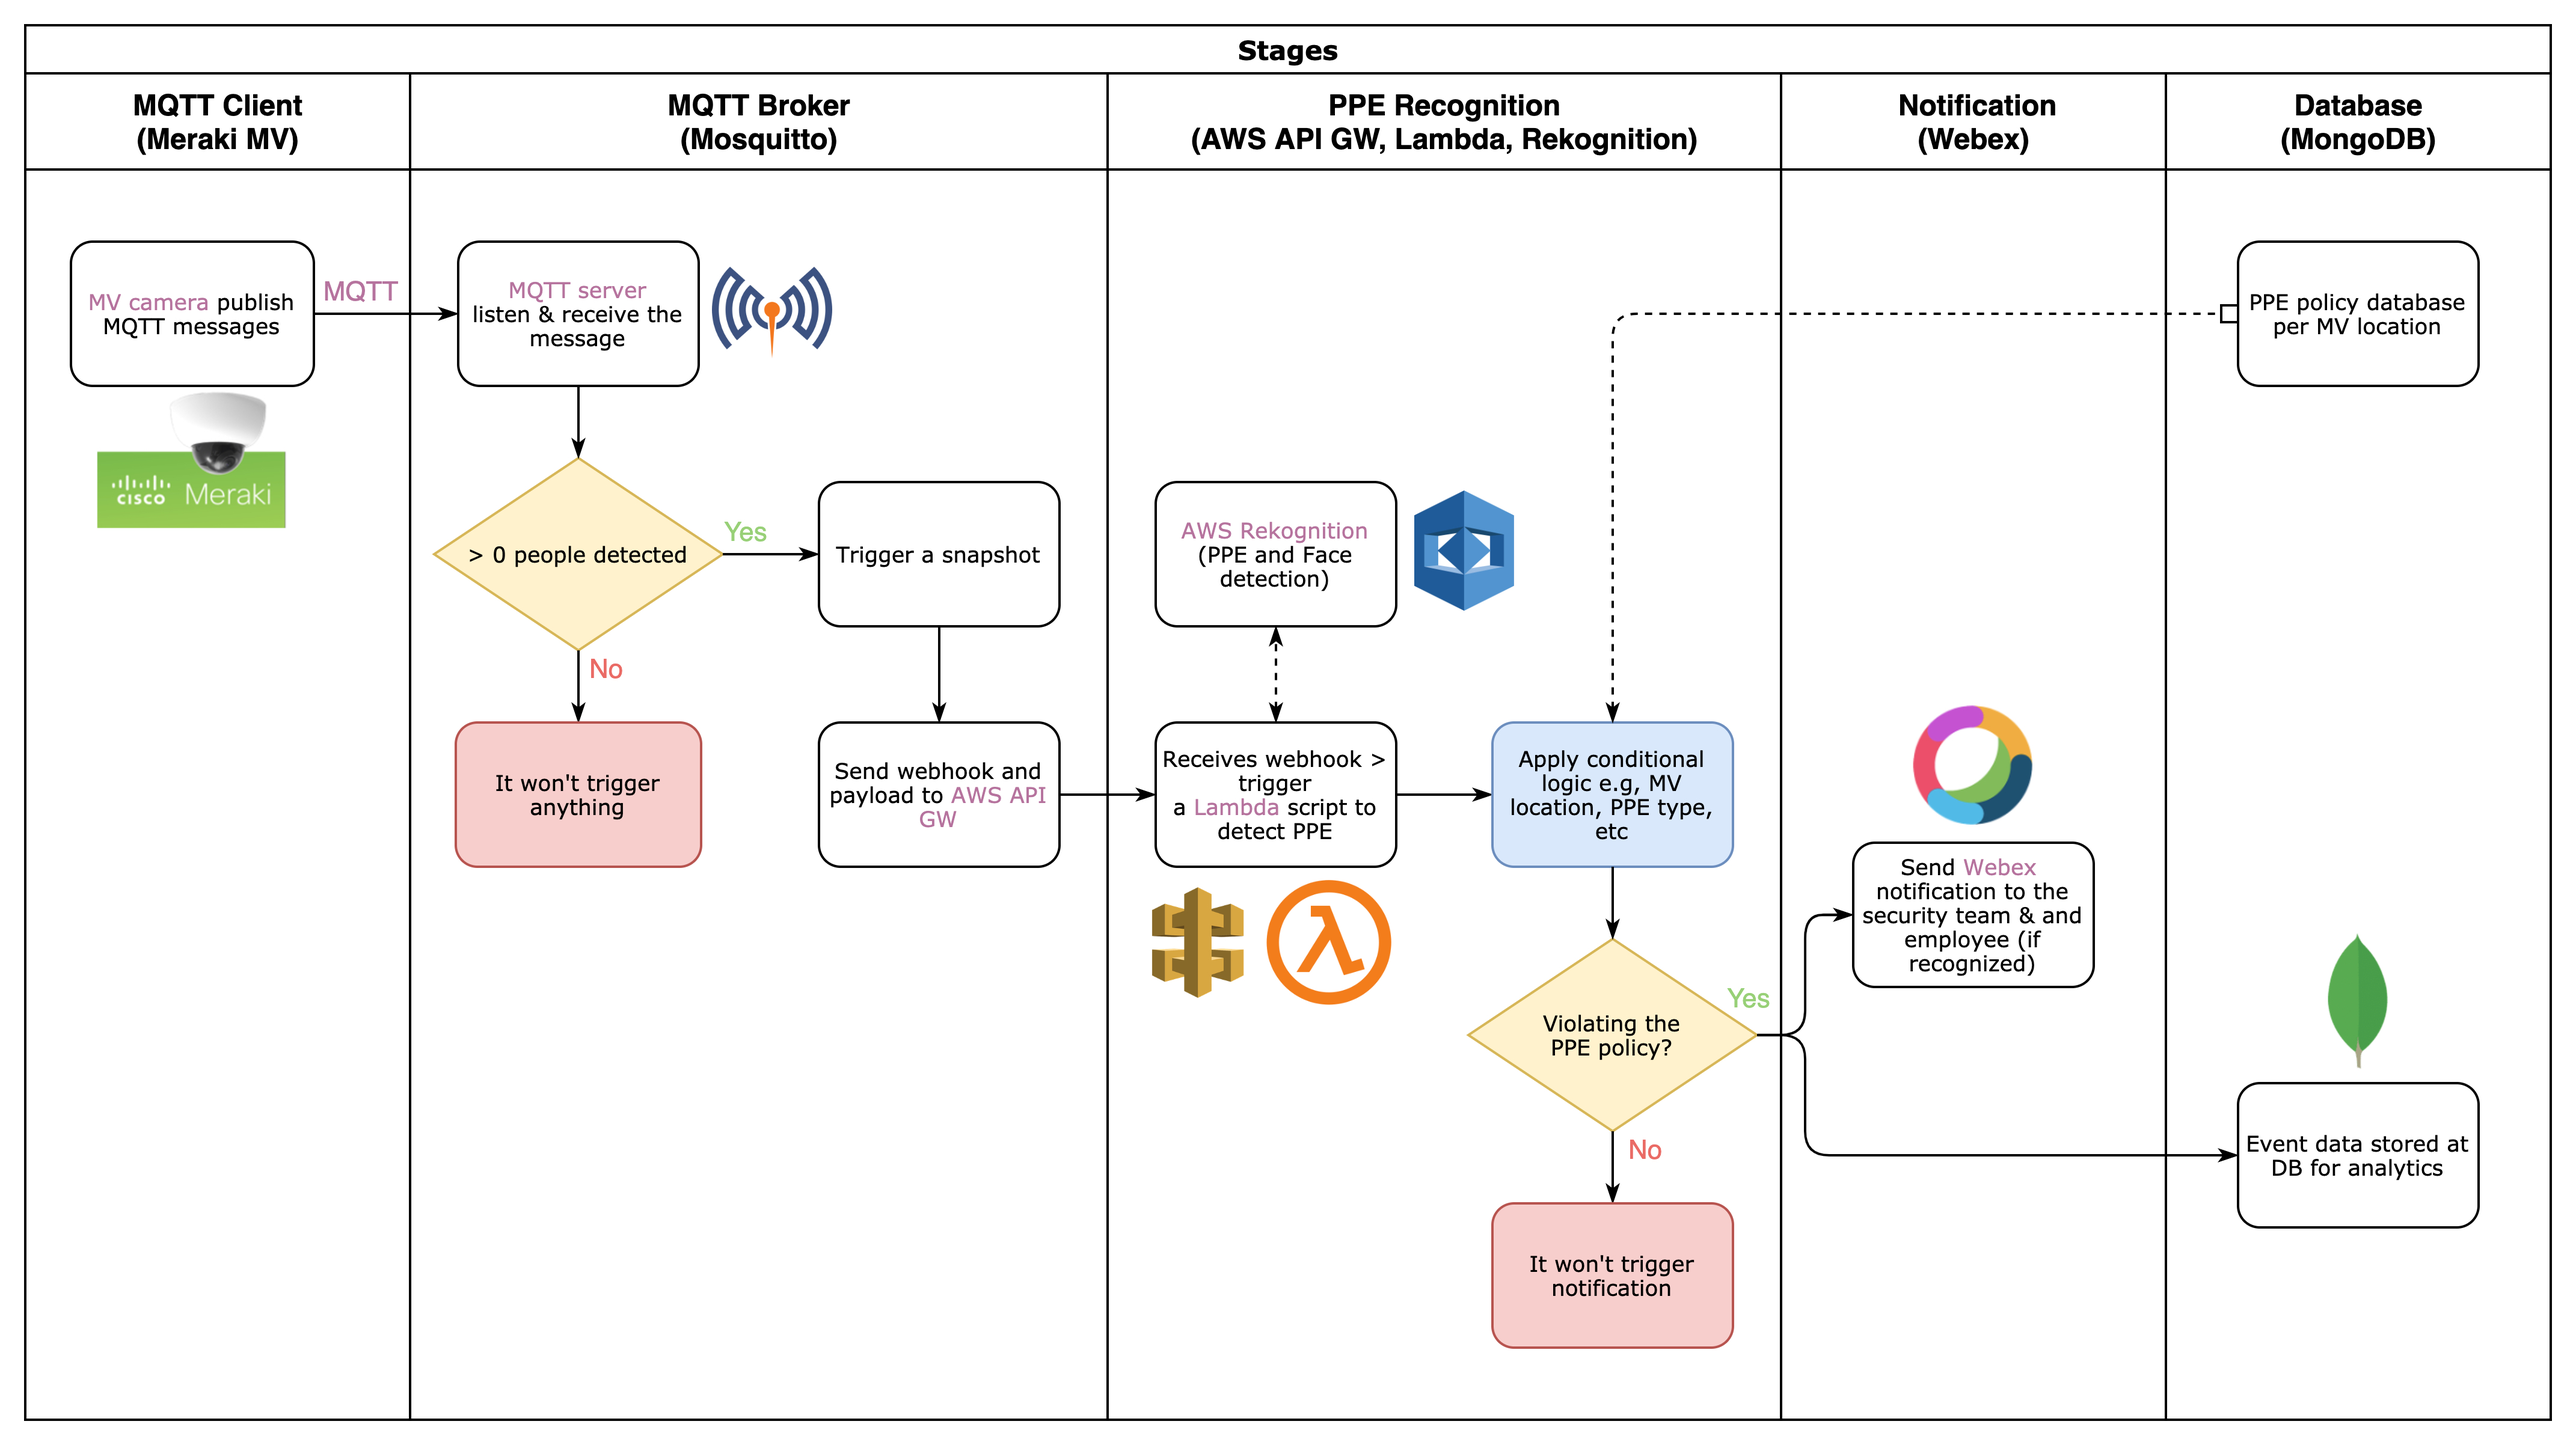
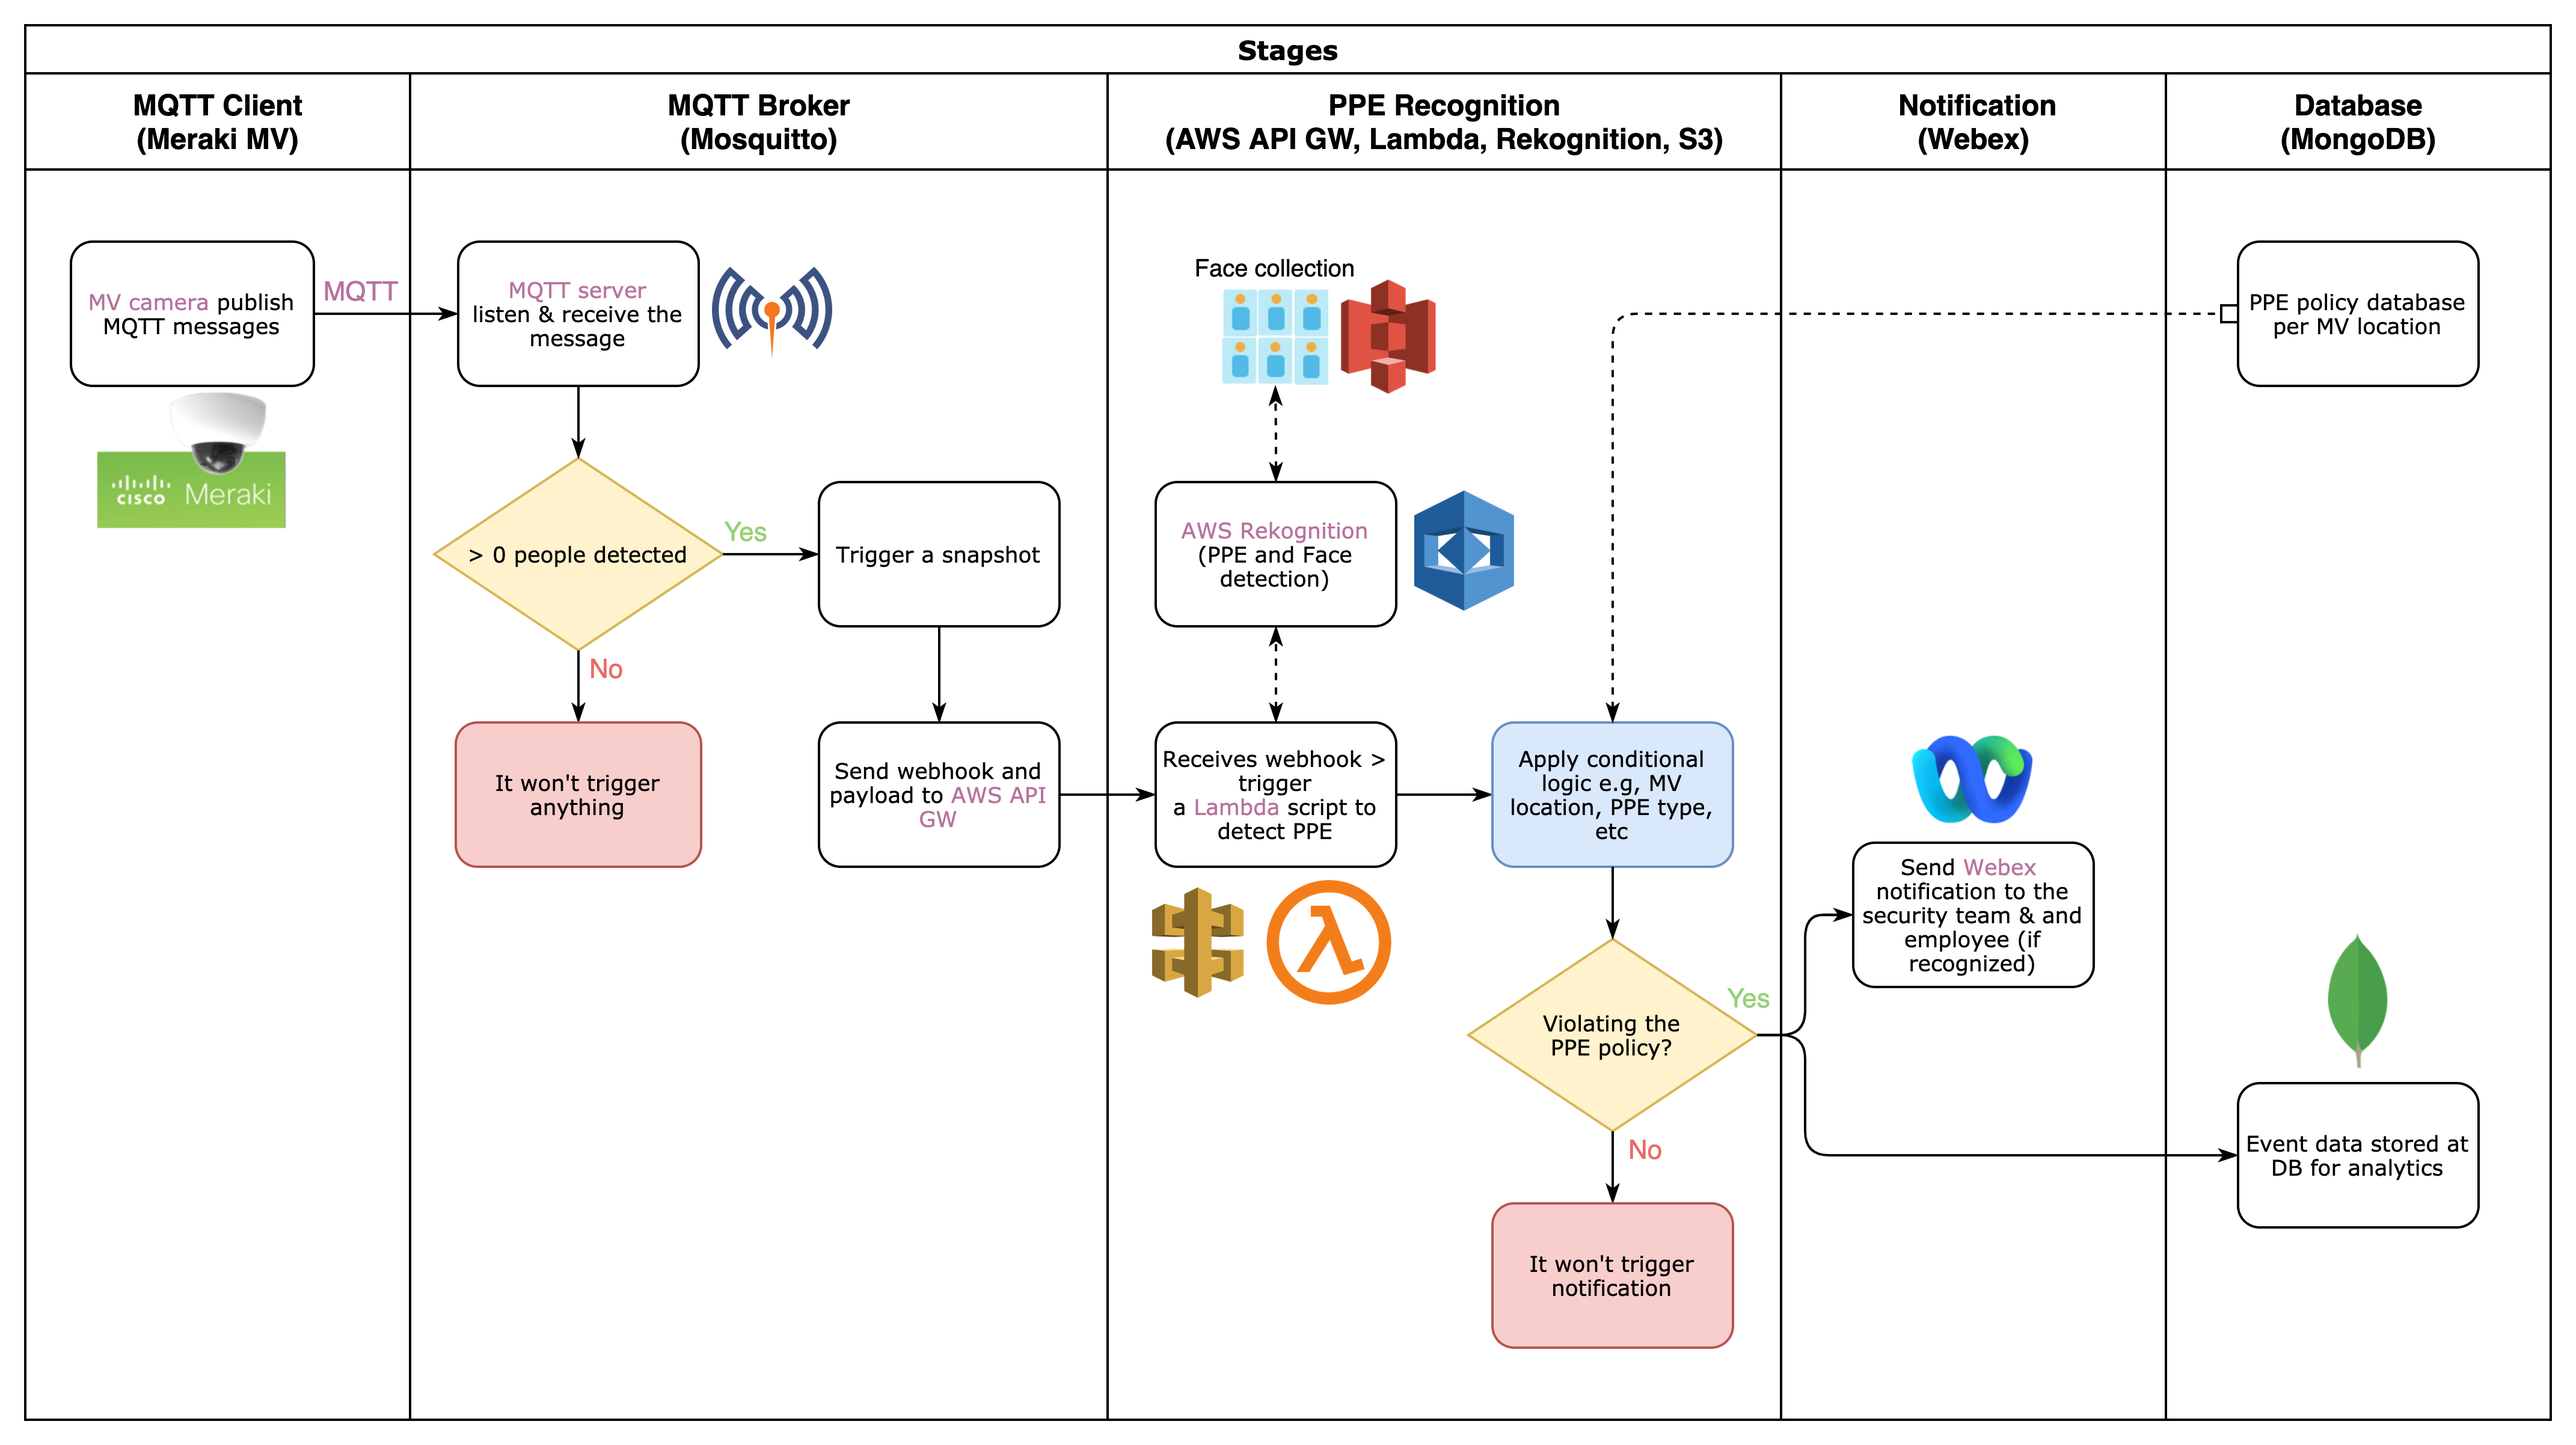
update graph

Changed region(s): [[0.4657, 0.1872, 0.5588, 0.2808], [0.4657, 0.0624, 0.683, 0.1248], [0.7451, 0.468, 0.8072, 0.5928]]

diff --git a/README.md b/README.md
@@ -26,7 +26,7 @@ The following diagram describes the PoV high level design.
 * Camera: Meraki MV
 * MQTT broker: Mosquitto
 * Database system: MongoDB Atlas
-* Recognition engine: AWS Lambda, Rekognition
+* Recognition engine: AWS Lambda, Rekognition, S3
 * Messaging: Webex
 
 
